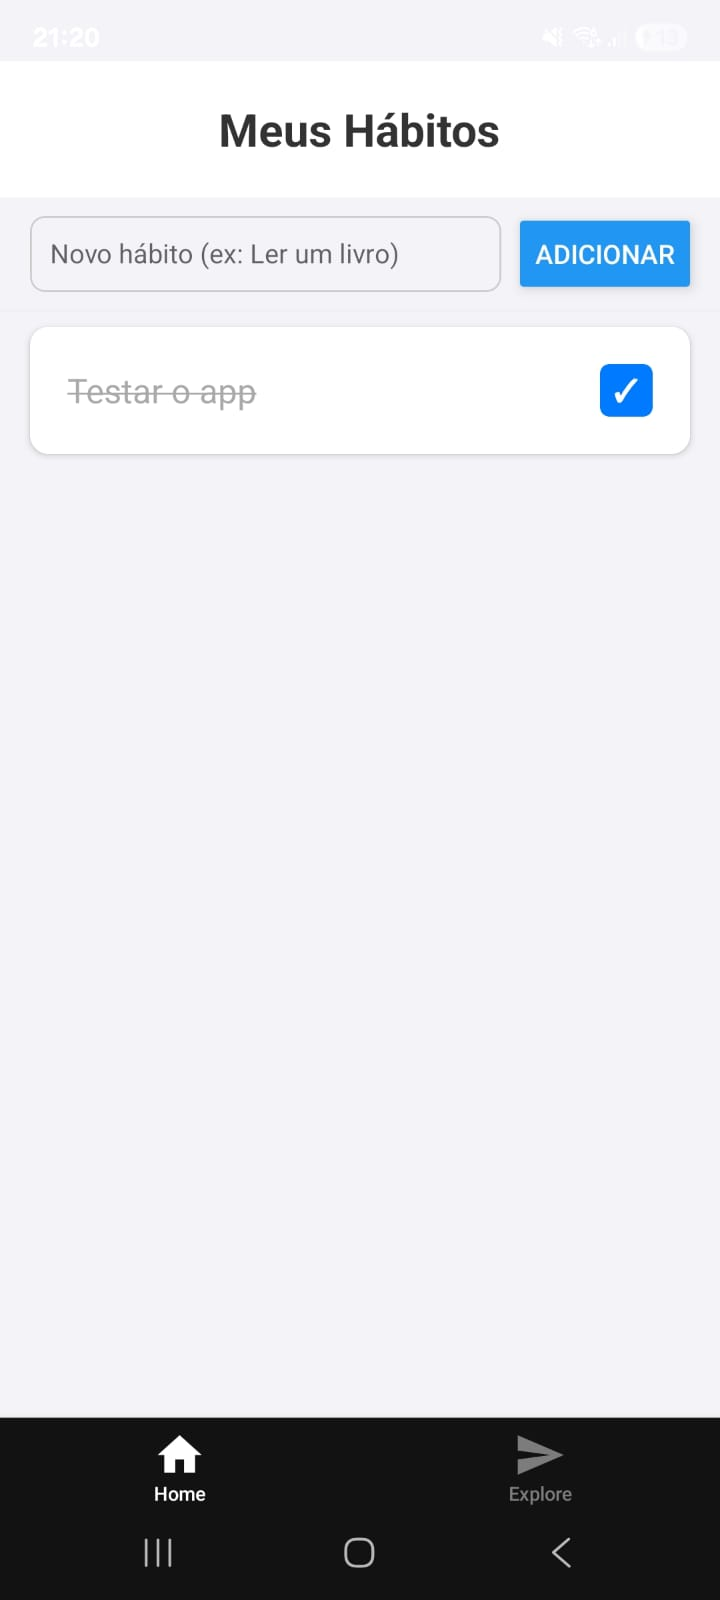
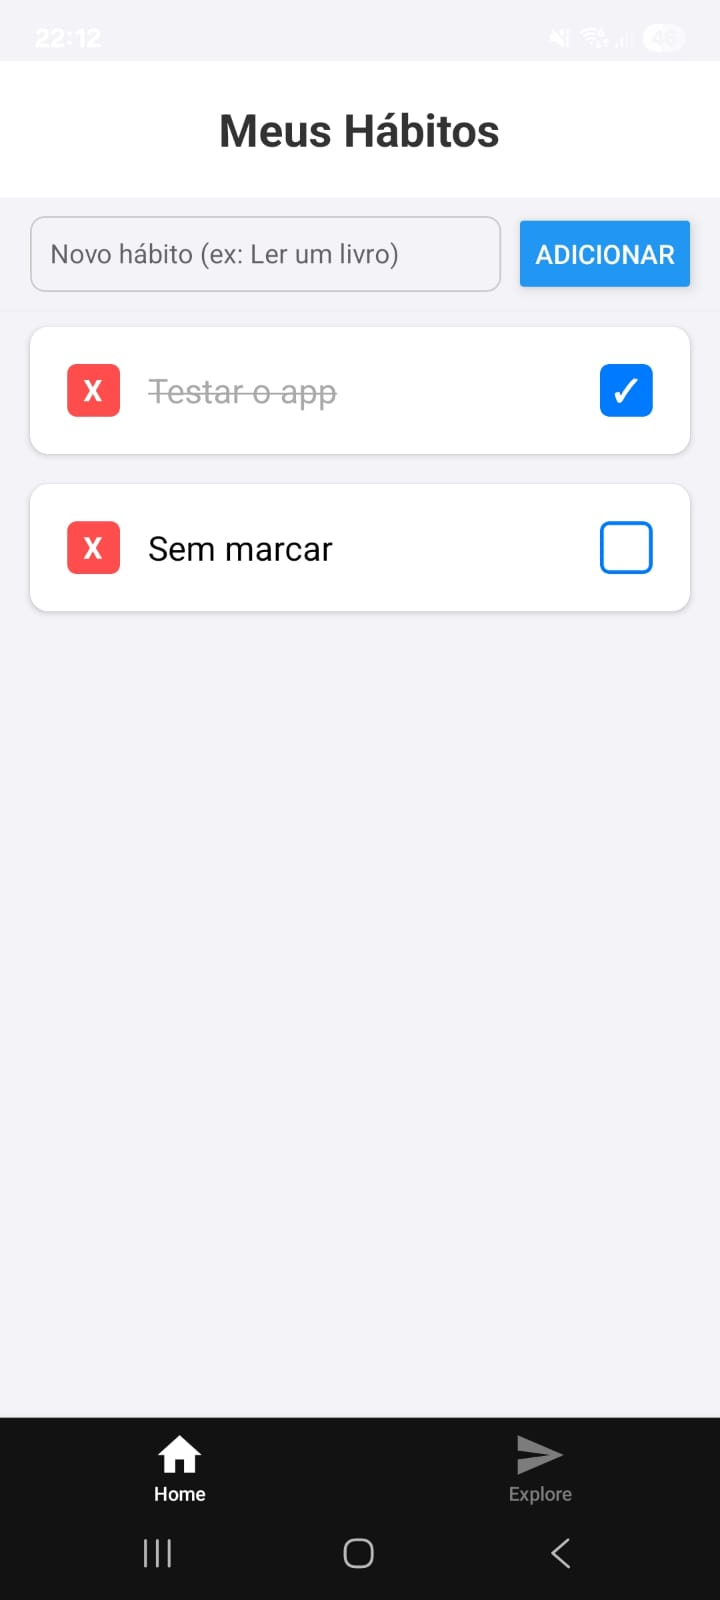
Adiciona função de remover e atualiza print

diff --git a/app/(tabs)/index.tsx b/app/(tabs)/index.tsx
@@ -1,5 +1,6 @@
 import React from 'react';
 import {
+  Alert,
   FlatList,
   Platform,
   SafeAreaView,
@@ -10,14 +11,34 @@ import {
 } from 'react-native';
 
 // Importando nosso cérebro e nossos blocos
-// O caminho (../) está correto para sair de (tabs) e depois de app
-import AddHabitForm from '../../components/AddHabitForm'; // Requisito: Componente
-import HabitCard from '../../components/HabitCard'; // Requisito: Componente
-import { useHabits } from '../../hooks/useHabits'; // Requisito: Hook customizado
+import AddHabitForm from '../../components/AddHabitForm'; // Requisito: Componente [cite: 20]
+import HabitCard from '../../components/HabitCard'; // Requisito: Componente [cite: 19]
+import { useHabits } from '../../hooks/useHabits'; // Requisito: Hook customizado [cite: 14]
 
 export default function HomeScreen() {
-  // Pegando a lógica centralizada do nosso hook
-  const { habits, addHabit, toggleHabitCompletion } = useHabits();
+  // Pegando a lógica centralizada (agora com 'removeHabit')
+  const { habits, addHabit, toggleHabitCompletion, removeHabit } = useHabits();
+
+  // --- NOVIDADE AQUI ---
+  // Função para confirmar a remoção (para não apagar sem querer)
+  const handleRemoveHabit = (id: string, text: string) => {
+    Alert.alert(
+      "Remover Hábito",
+      `Você tem certeza que deseja remover o hábito "${text}"?`,
+      [
+        {
+          text: "Cancelar",
+          style: "cancel"
+        },
+        { 
+          text: "Remover", 
+          onPress: () => removeHabit(id), // Só remove se clicar aqui
+          style: "destructive"
+        }
+      ]
+    );
+  };
+  // --- FIM DA NOVIDADE ---
 
   return (
     <SafeAreaView style={styles.container}>
@@ -35,7 +56,10 @@ export default function HomeScreen() {
         renderItem={({ item }) => (
           <HabitCard
             habit={item}
-            onToggleCompletion={() => toggleHabitCompletion(item.id)} // Passa a função de marcar
+            onToggleCompletion={() => toggleHabitCompletion(item.id)}
+            // --- NOVIDADE AQUI ---
+            onRemove={() => handleRemoveHabit(item.id, item.text)} // Passa a função de remover
+            // --- FIM DA NOVIDADE ---
           />
         )}
         ListEmptyComponent={
@@ -49,12 +73,11 @@ export default function HomeScreen() {
   );
 }
 
-// Requisito: Layout com StyleSheet
+// Requisito: Layout com StyleSheet [cite: 23]
 const styles = StyleSheet.create({
   container: {
     flex: 1,
     backgroundColor: '#f4f4f8',
-    // Garante que não sobreponha a barra de status do Android
     paddingTop: Platform.OS === 'android' ? StatusBar.currentHeight : 0,
   },
   header: {
@@ -68,7 +91,7 @@ const styles = StyleSheet.create({
     color: '#333',
   },
   list: {
-    flex: 1, // Ocupa o espaço restante
+    flex: 1, 
   },
   emptyContainer: {
     flex: 1,

diff --git a/components/HabitCard.tsx b/components/HabitCard.tsx
@@ -1,17 +1,24 @@
 import React from 'react';
 import { StyleSheet, Text, TouchableOpacity, View } from 'react-native';
-import { Habit } from '../hooks/useHabits'; // Importando a "forma" do hábito que criamos
+import { Habit } from '../hooks/useHabits'; // Importando a "forma" do hábito
 
 // Definindo as propriedades do componente
 type HabitCardProps = {
   habit: Habit;
   onToggleCompletion: () => void;
+  onRemove: () => void; // --- NOVIDADE AQUI ---
 };
 
-// Requisito: Componente HabitCard
-export default function HabitCard({ habit, onToggleCompletion }: HabitCardProps) {
+// Requisito: Componente HabitCard [cite: 19]
+export default function HabitCard({ habit, onToggleCompletion, onRemove }: HabitCardProps) {
   return (
     <View style={styles.card}>
+      {/* --- NOVIDADE AQUI: Botão de Remover --- */}
+      <TouchableOpacity onPress={onRemove} style={styles.removeButton}>
+        <Text style={styles.removeButtonText}>X</Text>
+      </TouchableOpacity>
+      {/* --- FIM DA NOVIDADE --- */}
+      
       <Text style={[styles.text, habit.completedToday && styles.textCompleted]}>
         {habit.text}
       </Text>
@@ -26,7 +33,7 @@ export default function HabitCard({ habit, onToggleCompletion }: HabitCardProps)
   );
 }
 
-// Requisito: Layout com StyleSheet
+// Requisito: Layout com StyleSheet [cite: 23]
 const styles = StyleSheet.create({
   card: {
     flexDirection: 'row',
@@ -37,8 +44,8 @@ const styles = StyleSheet.create({
     marginVertical: 8,
     marginHorizontal: 16,
     borderRadius: 10,
-    elevation: 2, // Sombra para Android
-    shadowColor: '#000', // Sombra para iOS
+    elevation: 2, 
+    shadowColor: '#000', 
     shadowOffset: { width: 0, height: 1 },
     shadowOpacity: 0.1,
     shadowRadius: 2,
@@ -46,6 +53,7 @@ const styles = StyleSheet.create({
   text: {
     fontSize: 18,
     flex: 1, 
+    marginLeft: 15, // Aumentamos a margem para dar espaço ao "X"
   },
   textCompleted: {
     textDecorationLine: 'line-through',
@@ -71,4 +79,19 @@ const styles = StyleSheet.create({
     fontSize: 16,
     fontWeight: 'bold',
   },
+  // --- NOVIDADE AQUI: Estilos do Botão Remover ---
+  removeButton: {
+    width: 28,
+    height: 28,
+    borderRadius: 5,
+    backgroundColor: '#ff4d4d', // Cor vermelha para "perigo"
+    justifyContent: 'center',
+    alignItems: 'center',
+  },
+  removeButtonText: {
+    color: '#fff',
+    fontWeight: 'bold',
+    fontSize: 16,
+  },
+  // --- FIM DA NOVIDADE ---
 });

diff --git a/hooks/useHabits.ts b/hooks/useHabits.ts
@@ -30,7 +30,7 @@ export function useHabits() {
 
   const loadHabits = async () => {
     try {
-      const storedHabits = await AsyncStorage.getItem(STORAGE_KEY);
+      const storedHabits = await AsyncStorage.getItem(STORAGE_KEY); // Requisito: carregar dados
       if (storedHabits !== null) {
         setHabits(JSON.parse(storedHabits));
       }
@@ -42,13 +42,13 @@ export function useHabits() {
   const saveHabits = async (habitsToSave: Habit[]) => {
     try {
       const jsonValue = JSON.stringify(habitsToSave);
-      await AsyncStorage.setItem(STORAGE_KEY, jsonValue);
+      await AsyncStorage.setItem(STORAGE_KEY, jsonValue); // Requisito: salvar dados
     } catch (e) {
       console.error("Erro ao salvar hábitos: ", e);
     }
   };
 
-  const addHabit = (text: string) => {
+  const addHabit = (text: string) => { // Requisito: adicionar hábitos
     if (!text || text.trim() === "") return; // Evita hábitos vazios
 
     const newHabit: Habit = {
@@ -60,7 +60,7 @@ export function useHabits() {
     setHabits(prevHabits => [...prevHabits, newHabit]);
   };
 
-  const toggleHabitCompletion = (id: string) => {
+  const toggleHabitCompletion = (id: string) => { // Requisito: marcar como concluído
     setHabits(prevHabits =>
       prevHabits.map(habit =>
         habit.id === id ? { ...habit, completedToday: !habit.completedToday } : habit
@@ -68,6 +68,19 @@ export function useHabits() {
     );
   };
 
+  // --- NOVIDADE AQUI ---
+  /**
+   * Remove um hábito da lista baseado no ID
+   */
+  const removeHabit = (id: string) => { // Requisito: remover hábitos
+    setHabits(prevHabits => 
+      prevHabits.filter(habit => habit.id !== id)
+    );
+  };
+  // --- FIM DA NOVIDADE ---
+
+
   // Retorna os dados e as funções que o app usará
-  return { habits, addHabit, toggleHabitCompletion };
+  // Adicionamos 'removeHabit' ao retorno
+  return { habits, addHabit, toggleHabitCompletion, removeHabit };
 }
